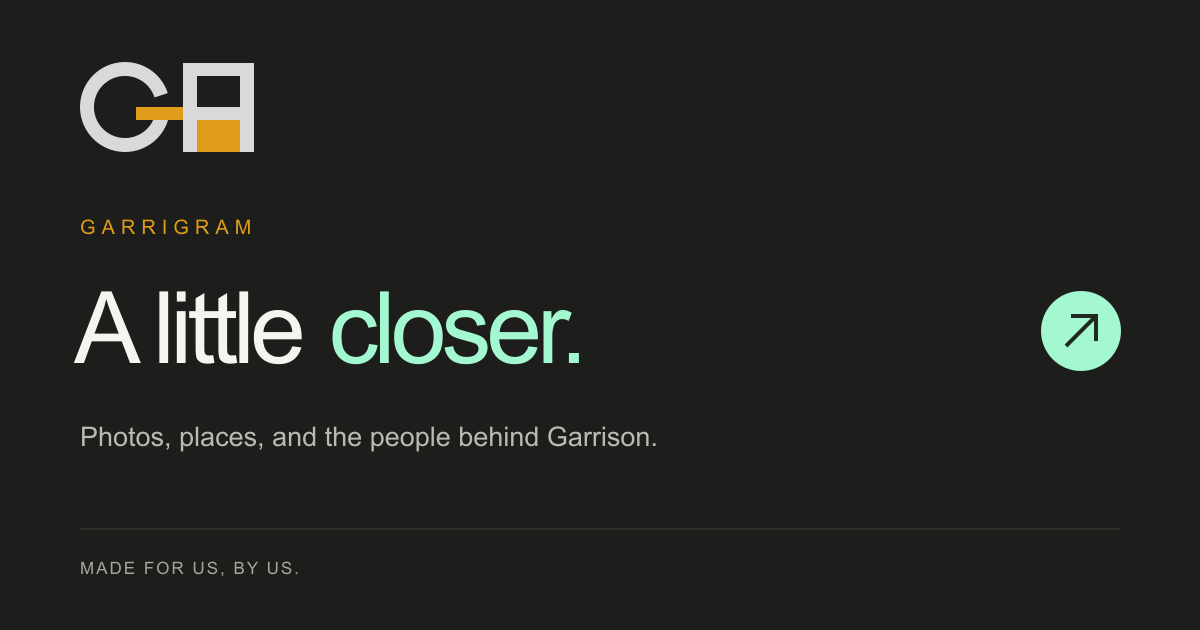
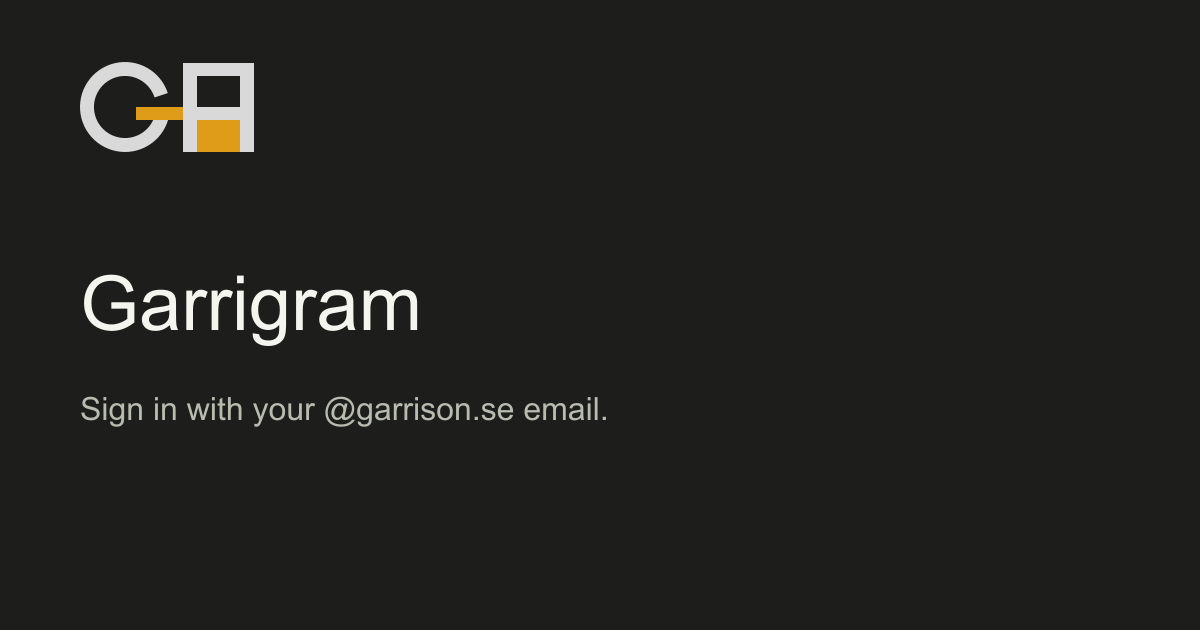
Simplify login and add owner editing, deletion and cigarette toggle

diff --git a/public/app.js b/public/app.js
@@ -15,6 +15,7 @@ try { visitorId=localStorage.getItem('garrigram-visitor')||crypto.randomUUID(); 
 let posts=[],map,pickerMap,pickerMarker,markers=[],selectedLocation=null,photoData=null,photoEffect=null,photoTask=0,toastTimer,refreshing=false;
 const commentStates=new Map();
 const effectLevels=new Map();
+const effectJobs=new Map();
 
 const places={office:{location:'Garrison HQ · Södermalmstorg',lat:59.3198,lng:18.0716},stockholm:{location:'Stockholm',lat:59.3293,lng:18.0686},gothenburg:{location:'Gothenburg',lat:57.7089,lng:11.9746},malmo:{location:'Malmö',lat:55.605,lng:13.0038}};
 const credits={'demo-stockholm':['Elijah Cobb','https://unsplash.com/photos/EAe_AWX92ds'],'demo-fika':['Mikael Stenberg','https://unsplash.com/photos/QL9AkXhjJuA'],'demo-archipelago':['Max van den Oetelaar','https://unsplash.com/photos/UTAoG0oeXew']};
@@ -26,36 +27,50 @@ $('profile-form').onsubmit=e=>{e.preventDefault();const name=$('display-name').v
 function toast(message){clearTimeout(toastTimer);$('toast').textContent=message;$('toast').hidden=false;toastTimer=setTimeout(()=>$('toast').hidden=true,4500);}
 async function api(url,options={}){const headers={'X-Visitor-Id':visitorId,...options.headers};if(!(options.body instanceof FormData))headers['Content-Type']='application/json';let response;try{response=await fetch(url,{...options,headers});}catch{throw new Error('Couldn’t connect. Check your connection, or sign in again in a new tab. Your draft is still here.');}if(!response.headers.get('content-type')?.includes('application/json'))throw new Error('Please sign in again in a new tab, then retry. Your draft is still here.');const body=await response.json();if(!response.ok)throw new Error(body.error||'Something went wrong. Please try again.');return body;}
 function relativeDate(date){const days=Math.floor((Date.now()-new Date(date).getTime())/86400000);if(days===0)return'Today';if(days===1)return'Yesterday';return new Date(date).toLocaleDateString('en-GB',{day:'numeric',month:'short'});}
-function card(post){const credit=credits[post.id];return `<article class="post" data-post="${escapeHTML(post.id)}"><header class="post-header"><span class="avatar" style="background:${post.demo?'#414937':'#344a40'}">${escapeHTML(initials(post.author))}</span><div><div class="post-author">${escapeHTML(post.author)}</div><div class="post-meta"><span>${post.demo?'A little inspiration':escapeHTML(relativeDate(post.created_at))}</span>${post.location?`<span>·</span><span>${escapeHTML(post.location.split(' · ')[0])}</span>`:''}</div></div>${post.demo?'<span class="demo-label">EXAMPLE</span>':''}</header>${photoMarkup(post)}<div class="post-content"><div class="post-actions"><button class="like-button ${post.liked?'liked':''}" data-action="like" aria-label="${post.liked?'Unlike':'Like'} moment by ${escapeHTML(post.author)}" aria-pressed="${Boolean(post.liked)}">${icon('heart')}<span>${post.liked?'Liked':'Like'}</span></button><button class="like-count text-button" data-action="likers" aria-label="Who liked this moment" ${post.likes?'':'hidden'}>${post.likes} ${post.likes===1?'like':'likes'}</button><button class="comment-toggle text-button" data-action="comments" aria-expanded="${Boolean(commentStates.get(post.id)?.open)}">${icon('comment')}<span>${commentLabel(post)}</span></button>${post.location?`<button class="location-link" data-action="map">${icon('pin')}${escapeHTML(post.location.split(' · ')[0])}</button>`:''}</div>${post.caption?`<p class="post-caption">${escapeHTML(post.caption)}</p>`:''}<div class="post-footer"><span>${post.demo?'EXAMPLE MOMENT':escapeHTML(new Date(post.created_at).toLocaleDateString('en-GB',{day:'numeric',month:'long'})).toUpperCase()}</span>${credit?`<a href="${credit[1]}" target="_blank" rel="noopener noreferrer">PHOTO: ${escapeHTML(credit[0].toUpperCase())} ↗</a>`:`<time datetime="${escapeHTML(post.created_at)}" title="${escapeHTML(new Date(post.created_at).toLocaleString())}">${escapeHTML(new Date(post.created_at).toLocaleTimeString('en-GB',{hour:'2-digit',minute:'2-digit',hourCycle:'h23'}))}</time>`}</div><div class="comments-container">${commentsMarkup(post)}</div></div></article>`;}
+function card(post){const credit=credits[post.id];return `<article class="post" data-post="${escapeHTML(post.id)}"><header class="post-header"><span class="avatar" style="background:${post.demo?'#414937':'#344a40'}">${escapeHTML(initials(post.author))}</span><div><div class="post-author">${escapeHTML(post.author)}</div><div class="post-meta"><span>${post.demo?'A little inspiration':escapeHTML(relativeDate(post.created_at))}</span>${post.location?`<span>·</span><span>${escapeHTML(post.location.split(' · ')[0])}</span>`:''}</div></div>${post.demo?'<span class="demo-label">EXAMPLE</span>':''}${post.can_edit?'<div class="owner-actions"><button class="text-button" data-action="edit-post" aria-label="Edit post">Edit</button><button class="text-button" data-action="delete-post" aria-label="Delete post">Delete</button></div>':''}</header>${photoMarkup(post)}<div class="post-content"><div class="post-actions"><button class="like-button ${post.liked?'liked':''}" data-action="like" aria-label="${post.liked?'Unlike':'Like'} moment by ${escapeHTML(post.author)}" aria-pressed="${Boolean(post.liked)}">${icon('heart')}<span>${post.liked?'Liked':'Like'}</span></button><button class="like-count text-button" data-action="likers" aria-label="Who liked this moment" ${post.likes?'':'hidden'}>${post.likes} ${post.likes===1?'like':'likes'}</button><button class="comment-toggle text-button" data-action="comments" aria-expanded="${Boolean(commentStates.get(post.id)?.open)}">${icon('comment')}<span>${commentLabel(post)}</span></button>${post.location?`<button class="location-link" data-action="map">${icon('pin')}${escapeHTML(post.location.split(' · ')[0])}</button>`:''}</div>${post.caption?`<p class="post-caption">${escapeHTML(post.caption)}</p>`:''}<div class="post-footer"><span>${post.demo?'EXAMPLE MOMENT':escapeHTML(new Date(post.created_at).toLocaleDateString('en-GB',{day:'numeric',month:'long'})).toUpperCase()}</span>${credit?`<a href="${credit[1]}" target="_blank" rel="noopener noreferrer">PHOTO: ${escapeHTML(credit[0].toUpperCase())} ↗</a>`:`<time datetime="${escapeHTML(post.created_at)}" title="${escapeHTML(new Date(post.created_at).toLocaleString())}">${escapeHTML(new Date(post.created_at).toLocaleTimeString('en-GB',{hour:'2-digit',minute:'2-digit',hourCycle:'h23'}))}</time>`}</div><div class="comments-container">${commentsMarkup(post)}</div></div></article>`;}
 function photoMarkup(post,full=false){
-  const svg=effectSvg(post.effect).replace('xMidYMid slice',full?'xMidYMid meet':'xMidYMid slice'),level=effectLevels.get(post.id)||0;
+  const svg=effectSvg(post.effect).replace('xMidYMid slice',full?'xMidYMid meet':'xMidYMid slice'),level=effectLevels.get(post.id)||0,job=effectJobs.get(post.id);
   const image=`<img class="post-photo" src="${escapeHTML(post.image)}" alt="${escapeHTML(post.caption||'Photo shared by '+post.author)}" ${full?'':'loading="lazy"'}>`;
-  return `<div class="photo-stage ${svg?'has-effect':''} ${full?'full-stage':''}" data-effect-id="${post.id}">${full?image:`<button class="photo-button" data-action="photo" aria-label="View photo by ${escapeHTML(post.author)}">${image}</button>`}${svg?`<div class="photo-effect" style="clip-path:inset(0 ${100-level}% 0 0)">${svg}</div><span class="effect-status">${level?'Cig version':'Original'}</span>`:''}</div>${svg?`<div class="effect-controls" data-effect-id="${post.id}"><button type="button" class="effect-toggle text-button" data-action="effect" aria-pressed="${level>0}">ge ciggen en chans</button><label><span class="sr-only">Swipe between original and cigarette version</span><input class="effect-slider" type="range" min="0" max="100" value="${level}" aria-label="Cigarette version" aria-valuetext="${level}% cigarette version"></label></div>`:''}`;
+  return `<div class="photo-stage ${svg?'has-effect':''} ${full?'full-stage':''}" data-effect-id="${post.id}">${full?image:`<button class="photo-button" data-action="photo" aria-label="View photo by ${escapeHTML(post.author)}">${image}</button>`}${svg?`<div class="photo-effect" style="clip-path:inset(0 ${100-level}% 0 0)">${svg}</div><span class="effect-status">${level?'Cig version':'Original'}</span>`:''}</div><div class="effect-controls" data-effect-id="${post.id}"><button type="button" class="effect-toggle text-button" data-action="effect" role="switch" aria-checked="${level>0}" ${job?.busy?'disabled':''}>ge ciggen en chans</button>${!svg?`<span class="effect-feedback" role="status">${escapeHTML(job?.message||'')}</span>`:''}</div>`;
 }
+function refreshPhoto(post){
+  document.querySelectorAll(`.photo-stage[data-effect-id="${post.id}"]`).forEach(stage=>{
+    const controls=stage.nextElementSibling;
+    controls?.remove();stage.outerHTML=photoMarkup(post,stage.classList.contains('full-stage'));
+  });
+}
+async function togglePhotoEffect(id){
+  const post=posts.find(p=>p.id===id);if(!post||effectJobs.get(id)?.busy)return;
+  if(effectSvg(post.effect)){setEffectLevel(id,(effectLevels.get(id)||0)>0?0:100);return;}
+  effectJobs.set(id,{busy:true,message:'Making cig version…'});refreshPhoto(post);
+  try{
+    const img=new Image();img.src=post.image;await img.decode();
+    const scale=Math.min(1,2400/Math.max(img.naturalWidth,img.naturalHeight));
+    const canvas=document.createElement('canvas');canvas.width=Math.round(img.naturalWidth*scale);canvas.height=Math.round(img.naturalHeight*scale);canvas.getContext('2d').drawImage(img,0,0,canvas.width,canvas.height);
+    const {detectCigarettes}=await import('./effect-processor.mjs');
+    const effect=await Promise.race([detectCigarettes(canvas),new Promise((_,reject)=>setTimeout(()=>reject(new Error('Processing timed out. Tap to retry.')),30000))]);
+    if(!effect)throw new Error('No faces found. Try a clearer, front-facing photo.');
+    const saved=await api(`/api/posts/${id}/effect`,{method:'PUT',body:JSON.stringify({effect})});
+    post.effect=saved.effect;const current=posts.find(p=>p.id===id);if(current)current.effect=saved.effect;
+    effectLevels.set(id,100);effectJobs.delete(id);
+  }catch(error){effectJobs.set(id,{busy:false,message:error.message||'Couldn’t make the cig version. Tap to retry.'});}
+  refreshPhoto(post);
+}
+
 function setEffectLevel(id,value){
   const level=Math.max(0,Math.min(100,value));effectLevels.set(id,level);
   document.querySelectorAll(`[data-effect-id="${id}"]`).forEach(el=>{
     const overlay=el.querySelector('.photo-effect');if(overlay)overlay.style.clipPath=`inset(0 ${100-level}% 0 0)`;
     const status=el.querySelector('.effect-status');if(status)status.textContent=level?'Cig version':'Original';
-    const slider=el.querySelector('.effect-slider');if(slider){slider.value=level;slider.setAttribute('aria-valuetext',`${level}% cigarette version`);}
-    el.querySelector('.effect-toggle')?.setAttribute('aria-pressed',String(level>0));
+    el.querySelector('.effect-toggle')?.setAttribute('aria-checked',String(level>0));
   });
 }
-document.addEventListener('input',event=>{if(event.target.matches('.effect-slider'))setEffectLevel(event.target.closest('[data-effect-id]').dataset.effectId,Number(event.target.value));});
-document.addEventListener('click',event=>{const button=event.target.closest('.effect-toggle');if(button){const id=button.closest('[data-effect-id]').dataset.effectId;setEffectLevel(id,(effectLevels.get(id)||0)>0?0:100);}});
-let swipe=null,suppressPhotoClickUntil=0;
-document.addEventListener('pointerdown',event=>{const stage=event.target.closest('.photo-stage.has-effect');if(stage&&event.isPrimary)swipe={stage,x:event.clientX,y:event.clientY,moved:false};});
-document.addEventListener('pointermove',event=>{
-  if(!swipe)return;const dx=event.clientX-swipe.x,dy=event.clientY-swipe.y;
-  if(!swipe.moved&&Math.abs(dy)>Math.abs(dx)&&Math.abs(dy)>10){swipe=null;return;}
-  if(Math.abs(dx)>12||swipe.moved){swipe.moved=true;const bounds=swipe.stage.getBoundingClientRect();setEffectLevel(swipe.stage.dataset.effectId,100*(event.clientX-bounds.left)/bounds.width);}
-});
-document.addEventListener('pointerup',()=>{if(swipe?.moved)suppressPhotoClickUntil=Date.now()+400;swipe=null;});
-document.addEventListener('pointercancel',()=>{swipe=null;});
+document.addEventListener('click',event=>{const button=event.target.closest('.effect-toggle');if(button)void togglePhotoEffect(button.closest('[data-effect-id]').dataset.effectId);});
 function renderFeed(){ $('moment-count').textContent=`${posts.length} moment${posts.length===1?'':'s'}`; $('sample-note').hidden=!posts.some(p=>p.demo); if(posts.length)$('feed').innerHTML=posts.map(card).join(''); else {$('feed').innerHTML=`<div class="empty-state">${icon('camera')}<h3>Your everyday belongs here.</h3><p>Share a photo from the office, a coffee break,<br>or wherever the day takes you.</p><button class="primary" id="empty-share">Share the first moment</button></div>`;$('empty-share').onclick=openCompose;} }
 async function loadPosts({quiet=false}={}){if(refreshing||(quiet&&document.activeElement?.closest('.comment-form')))return;refreshing=true;try{posts=await api('/api/posts');$('status').textContent='';renderFeed();if(map)renderMarkers();}catch(e){if(!quiet){$('status').textContent='We couldn’t load the feed. '+e.message+' ';const retry=document.createElement('button');retry.className='text-button';retry.textContent='Try again';retry.onclick=()=>loadPosts();$('status').append(retry);}}finally{refreshing=false;}}
 async function postAction(e){const button=e.target.closest('[data-action]');if(!button)return;const article=button.closest('[data-post]');const post=posts.find(p=>p.id===article?.dataset.post);if(!post)return;
-  if(button.dataset.action==='photo'){if(Date.now()<suppressPhotoClickUntil)return;$('full-photo-view').innerHTML=photoMarkup(post,true);$('full-caption').textContent=post.caption;$('photo-dialog').showModal();}
+  if(['edit-post','delete-post','edit-comment','delete-comment'].includes(button.dataset.action)){openManage(post,button.dataset.action,button.dataset.commentId);return;}
+  if(button.dataset.action==='photo'){$('full-photo-view').innerHTML=photoMarkup(post,true);$('full-caption').textContent=post.caption;$('photo-dialog').showModal();}
   if(button.dataset.action==='comments'){
     const state=commentState(post.id);state.open=!state.open;updateComments(post);
     if(state.open)await loadComments(post);
@@ -81,6 +96,34 @@ async function postAction(e){const button=e.target.closest('[data-action]');if(!
   if(button.dataset.action==='map'){location.hash='map';showView();map?.setView([post.lat,post.lng],15);showMapDetail(post);}
 }
 $('feed').addEventListener('click',postAction);$('map-detail').addEventListener('click',postAction);
+let manageTarget=null,manageBusy=false;
+function openManage(post,action,commentId){
+  const isComment=action.endsWith('comment'),deleting=action.startsWith('delete');
+  const comment=isComment?commentState(post.id).comments.find(c=>String(c.id)===String(commentId)):null;
+  if(isComment?!comment?.can_edit:!post.can_edit)return;
+  manageTarget={post,comment,deleting};
+  $('manage-title').textContent=`${deleting?'Delete':'Edit'} ${isComment?'comment':'post'}`;
+  $('manage-description').textContent=deleting?(isComment?'Delete this comment? This cannot be undone.':'Delete this post and its photo, comments, and likes? This cannot be undone.'):'';
+  $('manage-label').textContent=isComment?'Comment':'Caption';$('manage-label').hidden=deleting;
+  $('manage-text').hidden=deleting;$('manage-text').value=isComment?comment.body:post.caption;$('manage-text').required=isComment&&!deleting;
+  $('manage-error').textContent='';$('manage-save').textContent=deleting?'Delete':'Save changes';$('manage-save').classList.toggle('danger',deleting);
+  $('manage-dialog').showModal();
+}
+$('manage-dialog').addEventListener('cancel',event=>{if(manageBusy)event.preventDefault();});
+$('manage-form').onsubmit=async event=>{
+  event.preventDefault();if(!manageTarget||manageBusy)return;
+  const {post,comment,deleting}=manageTarget;
+  if(!deleting&&comment&&!$('manage-text').value.trim()){$('manage-error').textContent='Write a comment first.';return;}
+  manageBusy=true;const buttons=$('manage-form').querySelectorAll('button');buttons.forEach(button=>button.disabled=true);$('manage-error').textContent='';
+  try{
+    const endpoint=`/api/posts/${post.id}${comment?'/comments/'+comment.id:''}`;
+    await api(endpoint,{method:deleting?'DELETE':'PATCH',...(!deleting?{body:JSON.stringify(comment?{body:$('manage-text').value}:{caption:$('manage-text').value})}:{})});
+    if(comment){if(deleting)post.comment_count=Math.max(0,(post.comment_count||0)-1);await loadComments(post);}
+    else{if(deleting){commentStates.delete(post.id);$('map-detail').innerHTML='';$('photo-dialog').close();}await loadPosts();if(!deleting&&$('map-detail').querySelector(`[data-post="${post.id}"]`))showMapDetail(posts.find(p=>p.id===post.id));}
+    $('manage-dialog').close();toast(deleting?'Deleted.':'Changes saved.');
+  }catch(error){$('manage-error').textContent=error.message;}
+  finally{manageBusy=false;buttons.forEach(button=>button.disabled=false);}
+};
 function commentState(id){
   if(!commentStates.has(id))commentStates.set(id,{open:false,comments:[],draft:'',loading:false,sending:false,error:'',hasMore:false,nextCursor:null});
   return commentStates.get(id);
@@ -90,7 +133,7 @@ function commentsMarkup(post){
   const state=commentState(post.id);if(!state.open)return '';
   return `<section class="comments" aria-label="Comments on moment by ${escapeHTML(post.author)}">
     ${state.hasMore?`<button type="button" class="text-button older-comments" data-action="older-comments" ${state.loading?'disabled':''}>Show earlier comments</button>`:''}
-    <ul class="comment-list">${state.comments.map(comment=>`<li><span class="avatar">${escapeHTML(initials(comment.author))}</span><div><div class="comment-meta"><strong>${escapeHTML(comment.author)}</strong><time datetime="${escapeHTML(comment.created_at)}">${escapeHTML(relativeDate(comment.created_at))}</time></div><p>${escapeHTML(comment.body)}</p></div></li>`).join('')}</ul>
+    <ul class="comment-list">${state.comments.map(comment=>`<li><span class="avatar">${escapeHTML(initials(comment.author))}</span><div><div class="comment-meta"><strong>${escapeHTML(comment.author)}</strong><time datetime="${escapeHTML(comment.created_at)}">${escapeHTML(relativeDate(comment.created_at))}</time></div><p>${escapeHTML(comment.body)}</p>${comment.can_edit?`<div class="comment-owner-actions"><button type="button" class="text-button" data-action="edit-comment" data-comment-id="${comment.id}" aria-label="Edit comment">Edit</button><button type="button" class="text-button" data-action="delete-comment" data-comment-id="${comment.id}" aria-label="Delete comment">Delete</button></div>`:''}</div></li>`).join('')}</ul>
     ${state.loading?'<p class="file-help" role="status">Loading comments…</p>':!state.comments.length&&!state.error?'<p class="file-help">Start the conversation.</p>':''}
     ${state.error?`<p class="error" role="alert">${escapeHTML(state.error)}</p>${!state.sending?'<button type="button" class="text-button" data-action="retry-comments">Refresh comments</button>':''}`:''}
     <form class="comment-form"><label>Leave a comment<textarea name="comment" rows="2" maxlength="1000" placeholder="Say something nice…" required ${state.sending?'disabled':''}>${escapeHTML(state.draft)}</textarea></label><div class="comment-form-footer"><span class="file-help">${displayName?'As '+escapeHTML(displayName):'Add your name before commenting'}</span><button type="submit" class="primary" ${state.sending?'disabled':''}>${state.sending?'Posting…':'Post comment'}</button></div></form>

diff --git a/cloudflare/branding/index.html b/cloudflare/branding/index.html
@@ -1,5 +1,5 @@
 <!doctype html>
-<html lang="en"><head><meta charset="utf-8"><meta name="viewport" content="width=device-width,initial-scale=1"><title>Garrigram — A little closer.</title><meta name="description" content="Photos, places, and the people behind Garrison. A private space for the team to share moments and stay a little closer."><link rel="canonical" href="https://go.garrigram.workers.dev/"><link rel="icon" type="image/svg+xml" href="/logo.svg">
-<meta property="og:type" content="website"><meta property="og:site_name" content="Garrigram"><meta property="og:title" content="Garrigram — A little closer."><meta property="og:description" content="Photos, places, and the people behind Garrison. Sign in with your company email and share a moment."><meta property="og:url" content="https://go.garrigram.workers.dev/"><meta property="og:image" content="https://go.garrigram.workers.dev/share.png"><meta property="og:image:width" content="1200"><meta property="og:image:height" content="630"><meta property="og:image:alt" content="Garrison logo and Garrigram: A little closer."><meta name="twitter:card" content="summary_large_image"><meta name="twitter:title" content="Garrigram — A little closer."><meta name="twitter:description" content="Photos, places, and the people behind Garrison."><meta name="twitter:image" content="https://go.garrigram.workers.dev/share.png">
-<style>:root{color-scheme:dark}*{box-sizing:border-box}body{margin:0;background:#1d1e1b;color:#f4f5ef;font-family:Arial,sans-serif;min-height:100svh;display:flex;flex-direction:column}header,footer{display:flex;align-items:center;justify-content:space-between;padding:30px 6vw}header{border-bottom:1px solid #3a3c34}header img{width:87px;height:45px}header span,footer{font-size:11px;letter-spacing:1.5px;color:#a4a79c}main{width:min(100%,1080px);margin:auto;padding:76px 6vw 90px}.eyebrow{color:#de9c19;font-size:12px;letter-spacing:3px}h1{font-size:clamp(56px,8.5vw,104px);line-height:1.04;letter-spacing:-5px;font-weight:500;margin:26px 0}h1 span{color:#a3f8d2}.intro{max-width:450px;color:#b8bcb0;font-size:18px;line-height:1.7;margin:28px 0 34px}.button{display:inline-flex;gap:36px;align-items:center;background:#a3f8d2;color:#1d2921;border-radius:50px;padding:18px 26px;text-decoration:none;font-size:16px;font-weight:600}.button:hover{background:#c3ffe5}.button:focus-visible{outline:3px solid #eda046;outline-offset:5px}.hint{font-size:12px;color:#a4a79c;margin-top:20px}footer{border-top:1px solid #3a3c34;letter-spacing:.6px}footer a{color:inherit;text-decoration:none}@media(max-width:550px){header{padding:24px}header span{font-size:9px;max-width:120px;text-align:right;line-height:1.6}main{padding:60px 24px}h1{letter-spacing:-3px}.intro{font-size:16px}footer{padding:24px;font-size:10px}}</style></head>
-<body><header><img src="/logo.svg" alt="Garrison" width="174" height="90"><span>THE PEOPLE BEHIND GARRISON</span></header><main><p class="eyebrow">GARRIGRAM</p><h1>A little<br><span>closer.</span></h1><p class="intro">Photos from wherever the day takes us.<br>The places. The people. The moments in between.</p><a class="button" href="https://garrigram.garrigram.workers.dev/">Join the team <span aria-hidden="true">↗</span></a><p class="hint">Sign in with your @garrison.se email.</p></main><footer><span>MADE FOR US, BY US.</span><a href="https://garrison.se">garrison.se ↗</a></footer></body></html>
+<html lang="en"><head><meta charset="utf-8"><meta name="viewport" content="width=device-width,initial-scale=1"><title>Garrigram — Sign in</title><meta name="description" content="Sign in to Garrigram with your @garrison.se email."><link rel="canonical" href="https://go.garrigram.workers.dev/"><link rel="icon" type="image/svg+xml" href="/logo.svg">
+<meta property="og:type" content="website"><meta property="og:site_name" content="Garrigram"><meta property="og:title" content="Garrigram — Sign in"><meta property="og:description" content="Sign in with your @garrison.se email."><meta property="og:url" content="https://go.garrigram.workers.dev/"><meta property="og:image" content="https://go.garrigram.workers.dev/share.png"><meta property="og:image:width" content="1200"><meta property="og:image:height" content="630"><meta property="og:image:alt" content="Garrison logo. Sign in to Garrigram."><meta name="twitter:card" content="summary_large_image"><meta name="twitter:title" content="Garrigram — Sign in"><meta name="twitter:description" content="Sign in with your @garrison.se email."><meta name="twitter:image" content="https://go.garrigram.workers.dev/share.png">
+<style>:root{color-scheme:dark}*{box-sizing:border-box}body{margin:0;background:#1d1e1b;color:#f4f5ef;font-family:Arial,sans-serif;min-height:100svh;display:grid;place-items:center;padding:24px}main{width:100%;max-width:340px;text-align:center}img{display:block;width:174px;height:90px;margin:0 auto 48px}p{font-size:15px;line-height:1.6;color:#b8bcb0;margin:0 0 24px}a{display:block;background:#a3f8d2;color:#1d2921;border-radius:8px;padding:16px;text-decoration:none;font-size:16px;font-weight:600}a:hover{background:#c3ffe5}a:focus-visible{outline:3px solid #eda046;outline-offset:5px}</style></head>
+<body><main><img src="/logo.svg" alt="Garrison" width="174" height="90"><p>Sign in with your @garrison.se email.</p><a href="https://garrigram.garrigram.workers.dev/">Sign in</a></main></body></html>

diff --git a/public/index.html b/public/index.html
@@ -19,6 +19,7 @@
   <dialog id="compose-dialog"><form id="compose-form"><div class="dialog-heading"><div><p class="eyebrow">A LITTLE SLICE OF YOUR DAY</p><h2>Share a moment<span class="orange-dot">.</span></h2></div><button type="button" class="icon-button close-dialog" aria-label="Close"><span data-icon="close"></span></button></div><div class="upload-area" id="upload-area"><img id="photo-preview" alt="Your selected photo" hidden><div id="upload-prompt"><span data-icon="camera"></span><h3>Something worth sharing?</h3><p>Pick a photo or snap one right now.</p></div><div class="upload-actions"><label class="secondary file-label">Choose a photo<input id="photo-input" type="file" accept="image/jpeg,image/png,image/webp,image/heic,image/heif"></label><label class="text-button file-label"><span data-icon="camera"></span>Take a photo<input id="camera-input" type="file" accept="image/*" capture="environment"></label></div><span class="file-help">JPG, PNG or WebP · up to 15 MB</span></div><p id="effect-progress" class="file-help" role="status"></p><label class="field-label" for="author">Your name</label><input id="author" name="author" placeholder="How should we call you?" maxlength="60" required autocomplete="name"><label class="field-label" for="caption">The story behind it <span>optional</span></label><textarea id="caption" name="caption" placeholder="A good day starts with…" maxlength="1000" rows="3"></textarea><div class="location-heading"><label class="field-label" for="location">Where was this? <span>optional</span></label><button type="button" class="text-button" id="use-location"><span data-icon="locate"></span>Use my location</button></div><select id="location"><option value="">No location</option><option value="office">Garrison HQ · Södermalmstorg</option><option value="stockholm">Stockholm</option><option value="gothenburg">Gothenburg</option><option value="malmo">Malmö</option><option value="custom">Choose a spot on the map…</option></select><div id="location-picker" hidden><div id="picker-map"></div><p class="file-help">Click the map to place your moment.</p><label class="field-label" for="location-name">Place name</label><input id="location-name" maxlength="100" placeholder="Give this spot a name"></div><p id="compose-error" class="error" role="alert"></p><footer class="dialog-footer"><span>Your moment, shared with the team.</span><button class="primary" id="publish-button" type="submit">Post moment <span data-icon="arrow"></span></button></footer></form></dialog>
   <dialog id="profile-dialog"><form id="profile-form"><div class="dialog-heading"><h2>Hello, you<span class="orange-dot">.</span></h2><button type="button" class="icon-button close-dialog" aria-label="Close"><span data-icon="close"></span></button></div><p>What should we call you on the feed?</p><label class="field-label" for="display-name">Your name</label><input id="display-name" maxlength="60" required autocomplete="name"><p class="file-help">A display name for this local preview.</p><button class="primary" type="submit">Save name</button></form></dialog>
   <dialog id="photo-dialog"><button class="icon-button close-dialog" aria-label="Close photo"><span data-icon="close"></span></button><div id="full-photo-view"></div><p id="full-caption"></p></dialog>
+  <dialog id="manage-dialog" aria-labelledby="manage-title"><form id="manage-form"><div class="dialog-heading"><h2 id="manage-title">Edit post</h2><button type="button" class="icon-button close-dialog" aria-label="Close editor"><span data-icon="close"></span></button></div><p id="manage-description" class="file-help"></p><label id="manage-label" class="field-label" for="manage-text">Caption</label><textarea id="manage-text" rows="4" maxlength="1000"></textarea><p id="manage-error" class="error" role="alert"></p><footer class="dialog-footer"><button type="button" class="secondary close-dialog">Cancel</button><button type="submit" class="primary" id="manage-save">Save changes</button></footer></form></dialog>
   <dialog id="likes-dialog"><div class="dialog-heading"><h2>A little love<span class="orange-dot">.</span></h2><button type="button" class="icon-button close-dialog" aria-label="Close likes"><span data-icon="close"></span></button></div><ul id="likes-content" class="people-list" aria-label="People who liked this moment"></ul></dialog>
   <div id="toast" role="status" hidden></div>
 </body></html>

diff --git a/public/style.css b/public/style.css
@@ -10,6 +10,12 @@
 @media(min-width:761px){.app-layout.map-layout{grid-template-columns:210px minmax(0,1fr);gap:36px}.map-layout .view-heading{margin-bottom:16px}}
 @media(max-width:760px){.map-intro{display:flex;flex-direction:column;align-items:flex-start;gap:10px}.map-actions{width:100%;justify-content:space-between}.map-intro .text-button{margin-top:0}.map-layout .map{height:64dvh;min-height:340px}.post-actions{gap:12px}.post-actions .location-link{flex-basis:100%;margin-left:0}.comment-form-footer{align-items:flex-end}.comment-form-footer .file-help{max-width:45%}}
 
-.photo-stage{position:relative;overflow:hidden}.photo-stage.has-effect{touch-action:pan-y}.photo-stage.has-effect .photo-button:hover .post-photo{transform:none}.photo-effect{position:absolute;inset:0;pointer-events:none}.photo-effect svg{display:block;width:100%;height:100%}.effect-status{position:absolute;right:12px;top:12px;background:#1d1e1bd9;color:#f4f5ef;border:1px solid #ffffff30;border-radius:50px;padding:5px 10px;font-size:10px;pointer-events:none}.effect-controls{display:flex;align-items:center;justify-content:space-between;gap:16px;background:#20221d;padding:11px 16px;border-bottom:1px solid var(--line)}.effect-toggle{font-size:12px;white-space:nowrap}.effect-toggle[aria-pressed="true"]{color:var(--mint)}.effect-controls label{width:40%;display:flex;align-items:center}.effect-slider{width:100%;accent-color:var(--mint);padding:0;min-height:26px;margin:0;cursor:ew-resize}.full-stage .post-photo{aspect-ratio:auto;height:auto;max-height:72vh;width:100%;object-fit:contain}.full-stage{width:fit-content;max-width:100%;margin:auto}.full-stage .photo-effect svg{object-fit:contain}#photo-dialog .close-dialog{z-index:2}.sr-only{position:absolute;width:1px;height:1px;padding:0;margin:-1px;overflow:hidden;clip:rect(0,0,0,0);white-space:nowrap;border:0}
+.photo-stage{position:relative;overflow:hidden}.photo-stage.has-effect{touch-action:pan-y}.photo-stage.has-effect .photo-button:hover .post-photo{transform:none}.photo-effect{position:absolute;inset:0;pointer-events:none}.photo-effect svg{display:block;width:100%;height:100%}.effect-status{position:absolute;right:12px;top:12px;background:#1d1e1bd9;color:#f4f5ef;border:1px solid #ffffff30;border-radius:50px;padding:5px 10px;font-size:10px;pointer-events:none}.effect-controls{display:flex;align-items:center;justify-content:space-between;gap:16px;background:#20221d;padding:11px 16px;border-bottom:1px solid var(--line)}.effect-toggle{font-size:12px;white-space:nowrap}.effect-toggle[aria-pressed="true"]{color:var(--mint)}.effect-controls label{width:40%;display:flex;align-items:center}.full-stage .post-photo{aspect-ratio:auto;height:auto;max-height:72vh;width:100%;object-fit:contain}.full-stage{width:fit-content;max-width:100%;margin:auto}.full-stage .photo-effect svg{object-fit:contain}#photo-dialog .close-dialog{z-index:2}.sr-only{position:absolute;width:1px;height:1px;padding:0;margin:-1px;overflow:hidden;clip:rect(0,0,0,0);white-space:nowrap;border:0}
 
 .full-stage{width:100%}
+
+.effect-feedback{font-size:12px;color:var(--muted);text-align:right;max-width:60%}.effect-toggle{min-height:44px}
+
+.owner-actions{margin-left:auto;display:flex;gap:12px}.owner-actions button,.comment-owner-actions button{font-size:12px;padding:8px 0}.comment-owner-actions{display:flex;gap:16px;margin-top:4px}.primary.danger{background:#ef9f91;color:#321b17}#manage-dialog{max-width:480px}#manage-text{width:100%}
+
+.effect-toggle[role="switch"]{display:inline-flex;align-items:center;gap:14px}.effect-toggle[role="switch"]::after{content:"";display:block;width:38px;height:22px;border:1px solid #737967;border-radius:20px;background:radial-gradient(circle at 10px 10px,#f4f5ef 7px,transparent 8px) #484c43;flex-shrink:0}.effect-toggle[aria-checked="true"]::after{background:radial-gradient(circle at 26px 10px,#1d2921 7px,transparent 8px) var(--mint);border-color:var(--mint)}

diff --git a/CLOUDFLARE.md b/CLOUDFLARE.md
@@ -8,7 +8,7 @@ The Worker is deployed at **https://garrigram.garrigram.workers.dev** with compa
 
 - D1 `garrigram`: `2a5b8292-dda7-4b9f-86b7-34af3aad6000`, Western Europe, migrations `0001` through `0004` applied.
 - R2 `garrigram-photos`: Standard storage; public `r2.dev` access confirmed disabled.
-- Current Worker version: `fcf3004f-c6b8-4450-b9c1-8939de8d369f`.
+- Current Worker version: `d131a556-89bf-48b4-98f5-1da49ecab7eb`.
 - Zero Trust Free team: `garrigram`; issuer `https://garrigram.cloudflareaccess.com`.
 - Access application: `a4b8a989-d4c9-47db-9767-85b9c50e972c`, protecting the `garrigram` Worker's production and preview URLs.
 - Access policy: `4af22bc8-73ca-472a-8738-511e6c92cf4a` (Garrison team). Its single Allow rule includes emails ending in `garrison.se`, verified in the saved dashboard configuration. Only One-time PIN is accepted; application sessions last 24 hours.
@@ -103,12 +103,16 @@ Official references: [Workers pricing](https://developers.cloudflare.com/workers
 
 ## Public welcome and login branding
 
-`wrangler.welcome.jsonc` deploys a static public welcome page at **https://go.garrigram.workers.dev** using `bun run cf:welcome`. This shorter share URL has Open Graph/Twitter metadata and a 1200×630 preview image. Its Join the team link enters the protected app on the original Worker URL. It has no database or photo bindings.
+`wrangler.welcome.jsonc` deploys a static public welcome page at **https://go.garrigram.workers.dev** using `bun run cf:welcome`. This shorter share URL has Open Graph/Twitter metadata and a 1200×630 preview image. Its Sign in link enters the protected app on the original Worker URL. It has no database or photo bindings.
 
-The Access login uses the supplied Garrison logo, charcoal background and company copy. Its logo is served publicly by the separate `garrigram-brand` Worker (`wrangler.brand.jsonc`). Cloudflare’s email form/button and Access heading retain provider styling. Brand content is in `cloudflare/branding/`; never put private files there.
+The Access login uses the supplied Garrison logo, charcoal background and only the company-email sign-in instruction. Its logo is served publicly by the separate `garrigram-brand` Worker (`wrangler.brand.jsonc`). Cloudflare’s email form/button and Access heading retain provider styling. Brand content is in `cloudflare/branding/`; never put private files there.
 
 For schema changes, run `bun run cf:migrate` before `bun run cf:deploy`. The current additions are migration 0002 (comments), 0003 (like display names), and 0004 (photo overlays). Old likes have the fallback name “A teammate”; new likes store the chosen display name. Names are user-entered labels; reaction ownership remains the verified email.
 
 Release verification: five automated tests passed (local persistence, Access JWT checks, unauthenticated denial, Cloudflare D1/R2 persistence, overlay validation). Browser checks confirmed face detection on a public portrait fixture, original/overlay toggling, comment submission, named-like dialog, closer map layout, branded Access login and public welcome page. Production signed-out checks for the app, assets, APIs and photo paths redirect to Access; welcome HTML and preview PNG return HTTP 200. The new authenticated features were tested locally; the production browser was signed out at deployment.
 
-Post-release read-only D1 verification found all four migrations applied and five production posts totaling 4,190,044 photo bytes. Production data was not modified by the UI tests. Welcome Worker version: `01f9826f-20d0-482d-af6a-cf6503f7e172`.
+Post-release read-only D1 verification found all four migrations applied and five production posts totaling 4,190,044 photo bytes. Production data was not modified by the UI tests. Welcome Worker version: `4b393a6b-ad67-49f2-916e-42589dca257c`.
+
+September 19 follow-up: simplified the public entry page and Access login copy. The cigarette control now appears on every post and generates a missing overlay on demand. Added owner-only caption edits, post deletion, and comment edits/deletion. APIs enforce verified-email ownership; post deletion deletes the private R2 object before removing the database record (foreign-key cascades remove comments/likes and the existing trigger releases storage accounting). A failed deletion can be retried; R2 and D1 are separate services. No new production migration is needed. Browser checks covered generation on an existing photo, caption/comment edits and both confirmation dialogs; isolated tests cover cross-user denial, cascading deletion and R2 cleanup.
+
+The cigarette control is now a two-state accessible switch, labelled “ge ciggen en chans”, with no slider or partial swipe state. Browser verification confirmed off → on → off using click and keyboard, and zero slider controls.

diff --git a/README.md b/README.md
@@ -19,7 +19,7 @@ Open http://127.0.0.1:4317. The server listens on loopback only by default. `POR
 
 - Feed and map, with mobile bottom navigation.
 - Photo upload, drag and drop, and a camera capture input for supported phones.
-- Captions and remembered display names.
+- Captions and remembered display names. Owners can edit captions and edit/delete their own comments. Deleting a post removes its photo, comments, and likes after confirmation.
 - Optional location: a city, Garrison HQ, map selection, or browser geolocation. The map opens at street zoom near the viewer when permission is granted; otherwise it uses the latest located post or Garrison HQ. “Near me” retries location and “Show all” fits the photo pins.
 - Photo pins open the corresponding moment. Full-size photo viewer.
 - Persistent comments and a list of names behind each like. Likes stored per browser visitor; other tabs pick up changes on focus or every 30 seconds.
@@ -63,6 +63,8 @@ The hosted app uses verified email for reaction identity, keeps photo storage pr
 
 ## Cigarette version
 
-New uploads run through MediaPipe Face Landmarker in the browser. The model and WebAssembly are served from this app; images are not sent to an external image-processing service. Up to 50 detected faces receive a playful cigarette overlay. **ge ciggen en chans** toggles the overlay; the slider or a horizontal swipe reveals it gradually. The resized photo remains intact. Existing posts are not retroactively processed. If no face is detected or processing fails, users can still post the original. Small, obscured, or side-facing faces may be missed.
+New uploads run through MediaPipe Face Landmarker in the browser. The model and WebAssembly are served from this app; images are not sent to an external image-processing service. Up to 50 detected faces receive a playful cigarette overlay. The **ge ciggen en chans** on/off switch toggles between the original and the cigarette overlay. The resized photo remains intact. The button is visible on existing posts too: tapping it generates and saves a missing overlay. If no face is detected or processing fails, users can still post the original. Small, obscured, or side-facing faces may be missed.
 
 Run `npm run prepare:effects` after dependency installation. This copies the pinned `@mediapipe/tasks-vision` runtime and downloads Google’s versioned Face Landmarker model; generated assets are ignored by Git and prepared automatically by deployment. MediaPipe is Apache-2.0 licensed. See [MediaPipe Face Landmarker](https://ai.google.dev/edge/mediapipe/solutions/vision/face_landmarker) for model documentation.
+
+Hosted ownership uses the verified Cloudflare Access email. Changing a display name never grants edit/delete rights. Local ownership uses the browser visitor ID; older local records without an owner remain read-only. Production posts already have email ownership, so these controls also work for existing posts.
